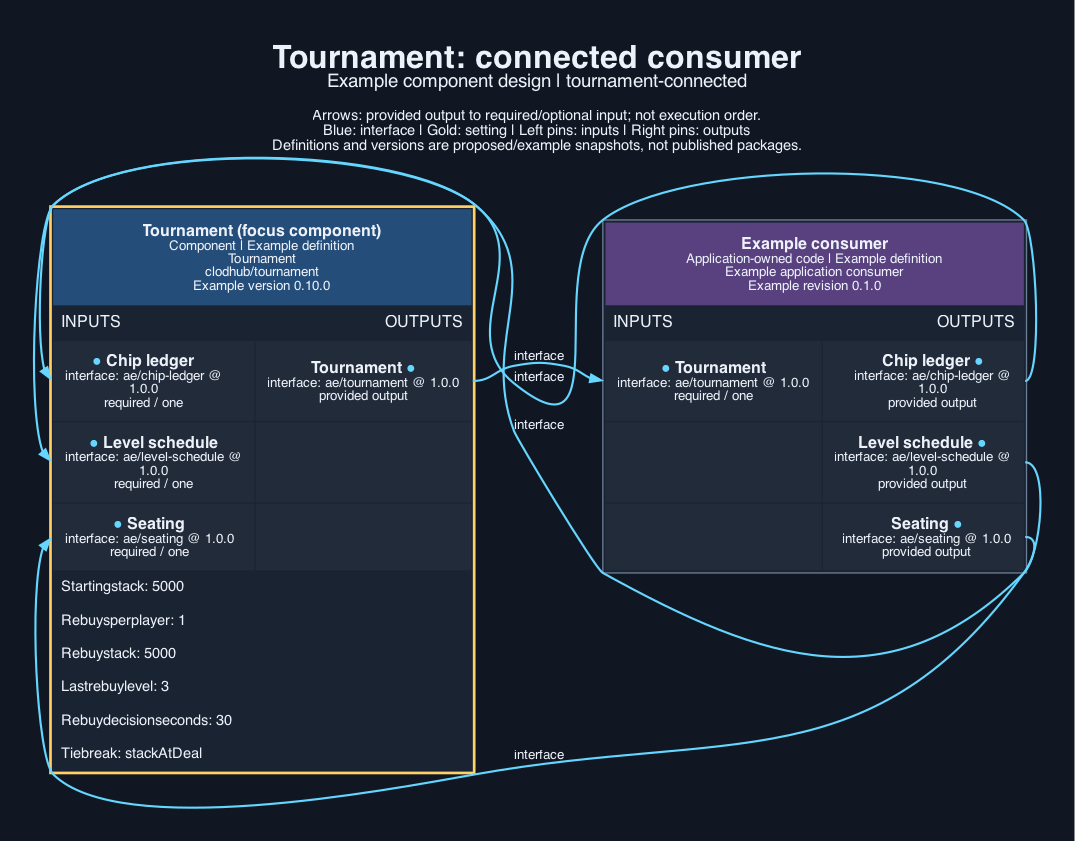
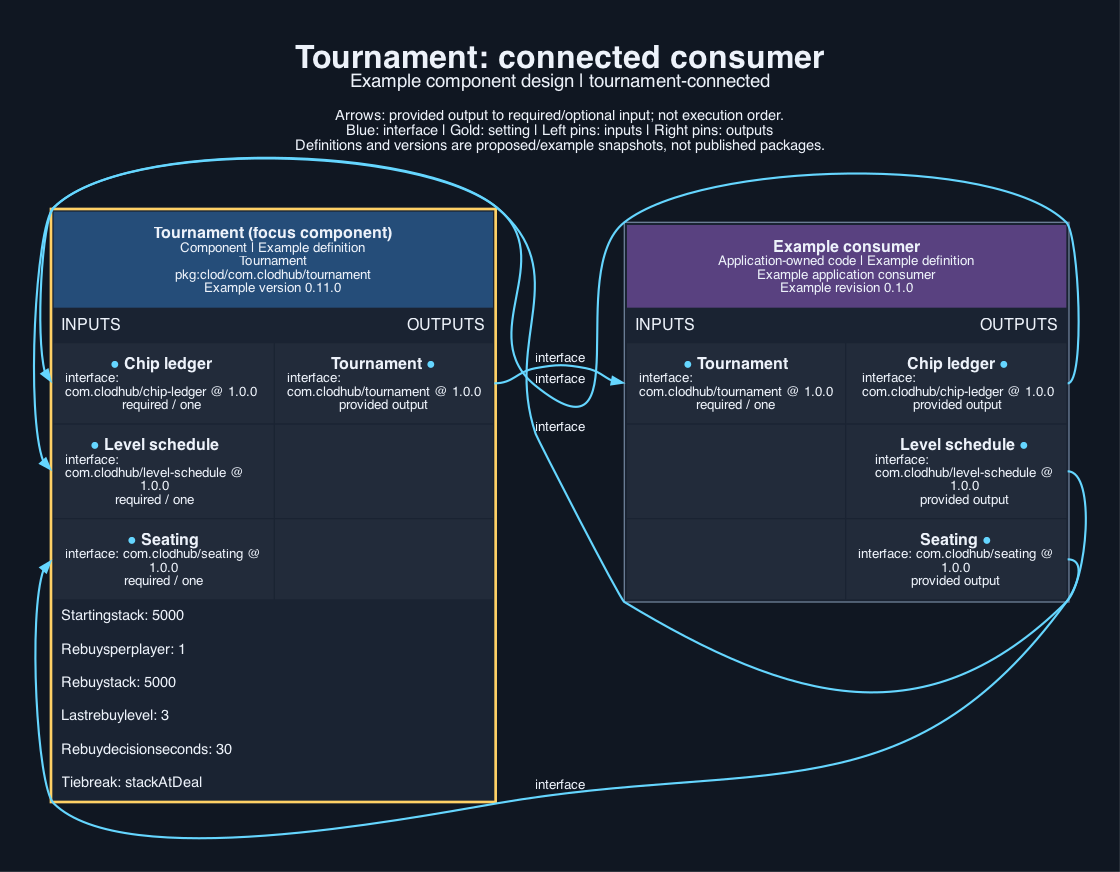
tournament 0.11.0: package URL names, clod, com.clodhub interface types and Kotlin packages

diff --git a/tests/android/Main.kt b/tests/android/Main.kt
@@ -1,6 +1,6 @@
-import ae.tournament.ResultPlayer
-import ae.tournament.headingKey
-import ae.tournament.resultRows
+import com.clodhub.tournament.ResultPlayer
+import com.clodhub.tournament.headingKey
+import com.clodhub.tournament.resultRows
 
 fun main() {
     val players = listOf(

diff --git a/implementation/android/src/main/java/com/clodhub/tournament/ResultRows.kt b/implementation/android/src/main/java/com/clodhub/tournament/ResultRows.kt
@@ -1,4 +1,4 @@
-package ae.tournament
+package com.clodhub.tournament
 
 // Rows of the final standings; text stays with the application.
 data class ResultPlayer(val id: String, val name: String, val place: Int?, val isBot: Boolean, val rebuysUsed: Int, val stack: Int)

diff --git a/INSTRUCTIONS.md b/INSTRUCTIONS.md
@@ -1,9 +1,9 @@
 # Tournament instructions
 
 ## For the agent
-Select `clodhub/tournament` once per recipe. Map the chips, rebuys and decision-time questions to `startingStack`, `rebuysPerPlayer`/`rebuyStack`/`lastRebuyLevel` and `rebuyDecisionSeconds`. Connect `chip-ledger`, `level-schedule` and `seating` to those components, then connect the provided `tournament` to turn-engine. If the recipe has no rebuys, set `rebuysPerPlayer` to 0. Set `startingStack` and `rebuyStack` here only: the tournament issues every stack through the chip ledger, so chip-ledger's own `startingStack` must not also be set to a different number.
+Select `pkg:clod/com.clodhub/tournament` once per recipe. Map the chips, rebuys and decision-time questions to `startingStack`, `rebuysPerPlayer`/`rebuyStack`/`lastRebuyLevel` and `rebuyDecisionSeconds`. Connect `chip-ledger`, `level-schedule` and `seating` to those components, then connect the provided `tournament` to turn-engine. If the recipe has no rebuys, set `rebuysPerPlayer` to 0. Set `startingStack` and `rebuyStack` here only: the tournament issues every stack through the chip ledger, so chip-ledger's own `startingStack` must not also be set to a different number.
 
-- Select package `clodhub/tournament` version `0.10.0`.
+- Select package `pkg:clod/com.clodhub/tournament` version `0.11.0`.
 - Settings to configure:
   - `startingStack` (integer; optional; default `5000`)
   - `rebuysPerPlayer` (integer; optional; default `1`)
@@ -11,10 +11,10 @@ Select `clodhub/tournament` once per recipe. Map the chips, rebuys and decision-
   - `lastRebuyLevel` (integer; optional; default `3`)
   - `rebuyDecisionSeconds` (integer; optional; default `30`)
   - `tiebreak` (string, identifier; optional; default `stackAtDeal`)
-- Connect the provided `tournament` (ae/tournament 1.0.0) to the consumer that needs it.
-- Supply `chip-ledger` (ae/chip-ledger 1.0.0) from the component that provides it.
-- Supply `level-schedule` (ae/level-schedule 1.0.0) from the component that provides it.
-- Supply `seating` (ae/seating 1.0.0) from the component that provides it.
+- Connect the provided `tournament` (com.clodhub/tournament 1.0.0) to the consumer that needs it.
+- Supply `chip-ledger` (com.clodhub/chip-ledger 1.0.0) from the component that provides it.
+- Supply `level-schedule` (com.clodhub/level-schedule 1.0.0) from the component that provides it.
+- Supply `seating` (com.clodhub/seating 1.0.0) from the component that provides it.
 - No accounts or keys are needed.
 
 ## For the developer
@@ -26,4 +26,4 @@ From the component directory:
 - `node --test tests/web.test.ts` (web, required-local; tools: node 26.5)
 - `python3 tests/native.py apple` (apple, platform; tools: python3 3.12, swiftc 6.4)
 - `python3 tests/native.py android` (android, platform; tools: python3 3.12, kotlinc 2.2, java 26.0)
-- `python3 -m aepm review <digest> --store STORE --policy POLICY --trusted --allow-network` checks an archive fetched with `python3 -m aepm fetch clodhub/tournament@VERSION --store STORE --from https://clodhub.com` and runs its suites.
+- `python3 -m clod review <digest> --store STORE --policy POLICY --trusted --allow-network` checks an archive fetched with `python3 -m clod fetch tournament@VERSION --store STORE --from https://clodhub.com` and runs its suites.

diff --git a/CONTRACT.md b/CONTRACT.md
@@ -18,7 +18,7 @@ Settings (all optional): `startingStack` (5000), `rebuysPerPlayer` (1), `rebuySt
 ## Artefacts and dependencies
 `component.json` maps every `implementation/` source into `components/tournament/`:
 
-- `implementation/android/src/main/java/ae/tournament/ResultRows.kt` -> `components/tournament/android/src/main/java/ae/tournament/ResultRows.kt`
+- `implementation/android/src/main/java/com/clodhub/tournament/ResultRows.kt` -> `components/tournament/android/src/main/java/com/clodhub/tournament/ResultRows.kt`
 - `implementation/apple/Sources/ResultRows.swift` -> `components/tournament/apple/Sources/ResultRows.swift`
 - `implementation/server/migrate.ts` -> `components/tournament/server/migrate.ts`
 - `implementation/server/tournament.ts` -> `components/tournament/server/tournament.ts`
@@ -28,13 +28,13 @@ Dependencies: none.
 `tools.lock.json` pins verification tools: node 26.5, python3 3.12, swiftc 6.4, kotlinc 2.2, java 26.0. Licence: `Apache-2.0` (`LICENCE`, `NOTICE`).
 
 ## Provided interfaces
-- `interfaces/tournament.json` defines `tournament` (ae/tournament) version 1.0.0: an OpenRPC 1.3.2 document, one method per function (a member of a created object is `<Type>.<member>`), with parameter, result and data types as JSON Schema 2020-12 (`components.schemas`) and thrown errors under `errors`.
-- `interfaces/tournament-state.schema.json` (ae/tournament-state 1.0.0) is a JSON Schema 2020-12 document of the stored tournament state.
+- `interfaces/tournament.json` defines `tournament` (com.clodhub/tournament) version 1.0.0: an OpenRPC 1.3.2 document, one method per function (a member of a created object is `<Type>.<member>`), with parameter, result and data types as JSON Schema 2020-12 (`components.schemas`) and thrown errors under `errors`.
+- `interfaces/tournament-state.schema.json` (com.clodhub/tournament-state 1.0.0) is a JSON Schema 2020-12 document of the stored tournament state.
 
 ## Required interfaces
-- `chip-ledger` (ae/chip-ledger) version 1.0.0, supplied by the recipe or application.
-- `level-schedule` (ae/level-schedule) version 1.0.0, supplied by the recipe or application.
-- `seating` (ae/seating) version 1.0.0, supplied by the recipe or application.
+- `chip-ledger` (com.clodhub/chip-ledger) version 1.0.0, supplied by the recipe or application.
+- `level-schedule` (com.clodhub/level-schedule) version 1.0.0, supplied by the recipe or application.
+- `seating` (com.clodhub/seating) version 1.0.0, supplied by the recipe or application.
 
 Each `interfaces/required-<id>.json` is a byte copy of the providing component's document.
 

diff --git a/SOURCE.md b/SOURCE.md
@@ -16,5 +16,5 @@ Reference revision: `19905b75dbea89fbfd424d67fe26c81aaed0e018`. Extraction sourc
 - `implementation/server/migrate.ts` <- new (`generated-platform`): ndjson export and import with a sha256 per record.
 - `implementation/web/results.ts` <- `web/src/screens.ts` 195-225 (`endScreen`: ranked by place then unplaced with stack, "rebought" mark, cancelled heading): `resultRows`, `headingKey`. Screen building, cards, icons and text left in the recipe.
 - `implementation/apple/Sources/ResultRows.swift` <- `ios/OurPoker/Sources/EndScreen.swift` 10-11 and 32-46 (same rows; stable ordering made explicit).
-- `implementation/android/src/main/java/ae/tournament/ResultRows.kt` <- `android/.../ui/EndScreen.kt` 38-39 and 54-66. Not compiled here (no kotlinc).
+- `implementation/android/src/main/java/com/clodhub/tournament/ResultRows.kt` <- `android/.../ui/EndScreen.kt` 38-39 and 54-66. Not compiled here (no kotlinc).
 - `interfaces/tournament-state.schema.json`, `migration.json`, `examples/consumer.ts`, `tests/fakes.ts` and tests: new.

diff --git a/visual/output/description.md b/visual/output/description.md
@@ -1,3 +1,3 @@
 # Tournament
 
-The tournament component at version 0.10.0 provides ae/tournament version 1.0.0 to an illustrative application consumer, which in turn supplies ae/chip-ledger version 1.0.0 and ae/level-schedule version 1.0.0 and ae/seating version 1.0.0. The 4 arrows each run from a named output to a required input of the same type and version. Setting values shown are placeholders and secrets appear only as references.
+The tournament component at version 0.11.0 provides com.clodhub/tournament version 1.0.0 to an illustrative application consumer, which in turn supplies com.clodhub/chip-ledger version 1.0.0 and com.clodhub/level-schedule version 1.0.0 and com.clodhub/seating version 1.0.0. The 4 arrows each run from a named output to a required input of the same type and version. Setting values shown are placeholders and secrets appear only as references.

diff --git a/.opencode/knowledge/00-index.md b/.opencode/knowledge/00-index.md
@@ -1,5 +1,5 @@
 # tournament ownership
 
 Repository: https://github.com/clodhub/tournament.git.
-Current code: `implementation/android/src/main/java/ae/tournament/ResultRows.kt`, `implementation/apple/Sources/ResultRows.swift`, `implementation/server/migrate.ts`, `implementation/server/tournament.ts`, `implementation/web/results.ts`.
+Current code: `implementation/android/src/main/java/com/clodhub/tournament/ResultRows.kt`, `implementation/apple/Sources/ResultRows.swift`, `implementation/server/migrate.ts`, `implementation/server/tournament.ts`, `implementation/web/results.ts`.
 `component.json`, `tools.lock.json` and `visual/` are generated from `authoring/spec.json`; edit the spec, not the generated files. `CONTRACT.md`, `INSTRUCTIONS.md` and `SOURCE.md` are hand-written and kept on regeneration.

diff --git a/.opencode/knowledge/workflow.md b/.opencode/knowledge/workflow.md
@@ -2,5 +2,5 @@
 
 Repository: `clodhub/tournament`. Licence: `Apache-2.0` (`LICENCE`, `NOTICE`).
 Suite commands (from the package root): `node --test tests/web.test.ts`; `python3 tests/native.py apple`; `python3 tests/native.py android`.
-Review a fetched archive: `python3 -m aepm review <digest> --store STORE --policy POLICY --trusted --allow-network`.
+Review a fetched archive: `python3 -m clod review <digest> --store STORE --policy POLICY --trusted --allow-network`.
 Always run Python with `-B`; never write bytecode into the repository.
